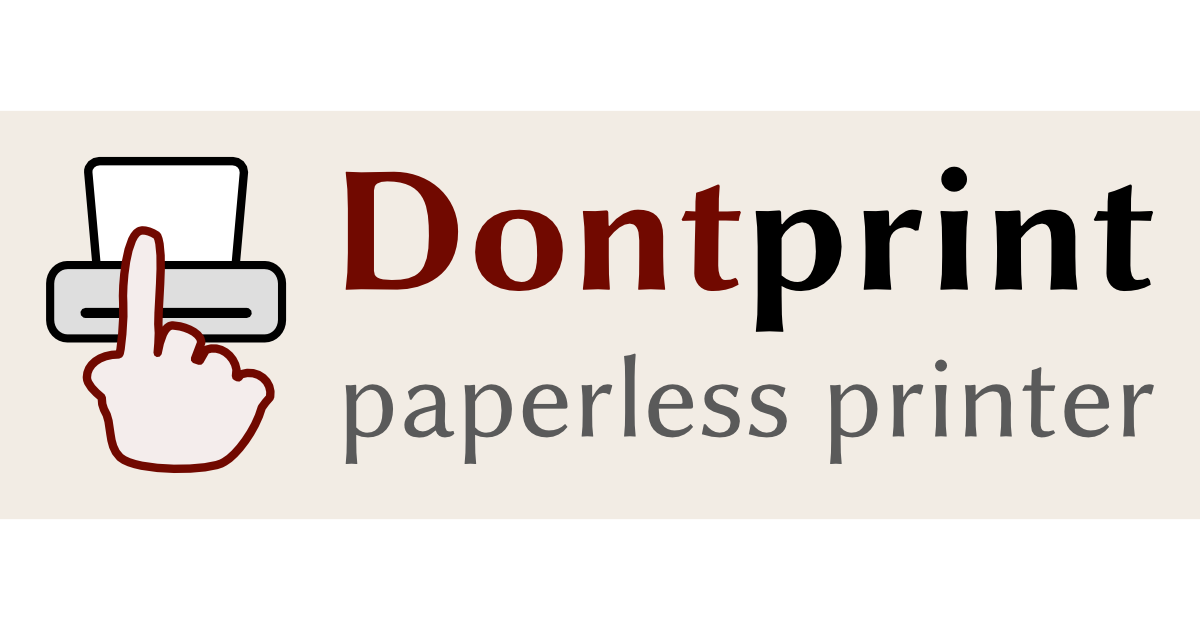
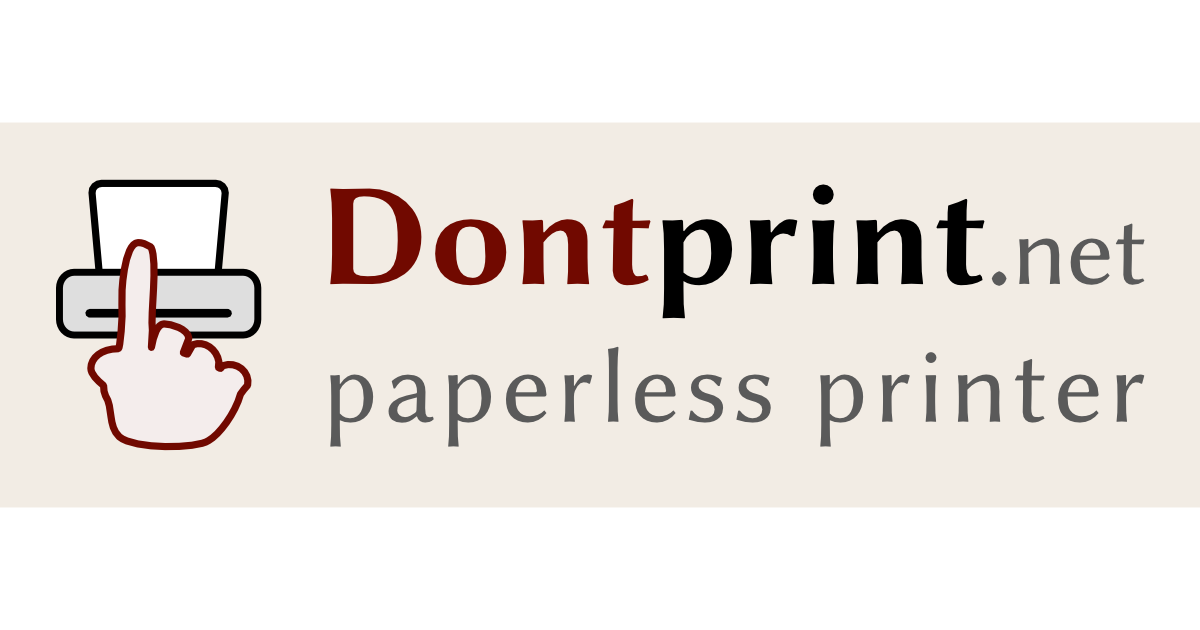
Change branding images to from "Dontprint" to "Dontprint.net"

diff --git a/global.css b/global.css
@@ -5,9 +5,9 @@ html,body {font-family:"Trebuchet MS",Helvetica,sans-serif;background-color:#faf
 #footer {max-width:58em; margin:auto; text-align:center; color:#524737; font-size:80%}
 .footeritem {margin-left:1.5em; padding-left:1.7em; border-left:1px solid #e3ddd6}
 #trademarks {margin:1em 0; font-size:90%}
-#header > a, #activepage {vertical-align:middle; color:#524737; font-weight:bold; margin-left:3em}
+#header > a, #activepage {vertical-align:middle; color:#524737; font-weight:bold; margin-left:2.8em}
 #header > a:hover {color:#000000}
-a#homelink {display:inline-block; width:140px; height:40px; background-image:url(dontprint.png); background-repeat:no-repeat; margin:7px; opacity:0.7; margin-left:0px}
+a#homelink {display:inline-block; width:161px; height:40px; background-image:url(dontprint.png); background-repeat:no-repeat; margin:7px; opacity:0.7; margin-left:0px}
 #homelink:hover {opacity:1}
 #activepage {color:#000000; text-shadow:0 0 2px #ffffff}
 #outerwebsitecontainer {position:relative;max-width:45em;background-color:#ffffff;margin:0 auto;text-align:left;padding:0;min-height:100%;box-shadow:0 0 2em 3em #ffffff}
